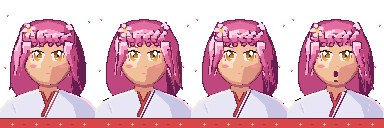
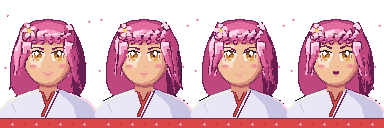
Sakura bust: bigger readable mouths, soft jaw shadow band, visible plum brows
Claude-Session: https://claude.ai/code/session_01J8LgTLVYzThXjNSRVhWqep

diff --git a/tools/sprites/anime_busts.py b/tools/sprites/anime_busts.py
@@ -734,11 +734,14 @@ def s_brow(d, cx, cy, side, lift=0.0, tilt=1.0):
     if E.get("anime"):
         """Thin, soft, high and slightly arched, in a hair-dark tone (not ink)."""
         base = cy - 4.1 - lift
-        dn = (tilt - 1) * 1.2
+        dn = (tilt - 1) * 2.4
         inner = (cx - side * 2.4, base + 0.3 + dn)
-        mid = (cx + side * 0.4, base - 0.55)
-        outer = (cx + side * 3.3, base + 0.1 - dn * 0.6)
-        d.line([P(*p) for p in smooth([inner, mid, outer], 6)], fill=lc(H_D), width=6, joint="curve")
+        mid = (cx + side * 0.4, base - 0.55 + dn * 0.25)
+        outer = (cx + side * 3.3, base + 0.1 - dn * 0.5)
+        sm = smooth([inner, mid, outer], 6)
+        col = lc(H_EDGE)
+        d.line([P(*p) for p in sm], fill=col, width=7, joint="curve")
+        d.line([P(*p) for p in sm[:len(sm) // 2]], fill=col, width=11, joint="curve")      # 1 px thicker at the inner end
         return
     lift += E["brow"]
     outer = (cx + side * 4.0, cy - 3.6 - lift - 0.5 * (tilt - 1))
@@ -748,19 +751,22 @@ def s_brow(d, cx, cy, side, lift=0.0, tilt=1.0):
 
 
 def s_mouth(d, kind):
-    """Small and cute: a short soft line in a dark-pink tone with the corners lifted, a tiny lighter lower lip;
-    shout = a small rounded open mouth with a hint of tongue."""
+    """A soft curved smile (dark-pink line, corners lifted, a lighter lower-lip tint); determined = the same width as a
+    one-sided smirk; shout = a rounded-D open mouth (flat top, round bottom) with a white teeth sliver and tongue."""
     YOFF[0] = -2.7
     if kind == "shout":
-        pts = ellipse_pts(24.0, 39.7, 1.2, 1.45, 16)
+        arc = [(24 + 1.75 * math.cos(a * math.pi / 14), 38.2 + 2.3 * math.sin(a * math.pi / 14)) for a in range(15)]
+        pts = [(22.25, 38.2), (25.75, 38.2)] + arc
         poly(d, pts, H_EDGE)
-        d.ellipse((23.2 * K, 40.2 * K, 24.8 * K, 41.0 * K), fill=LIP)
+        d.ellipse((22.9 * K, 36.9 * K, 25.1 * K, 37.8 * K), fill=RED_L)       # (raw coordinates: no YOFF)
+        rect(d, 22.7, 35.6, 25.3, 36.15, CREAM)
         outline(d, pts, 4, col=lc(LIP))
     elif kind == "determined":
-        d.line([P(*p) for p in smooth([(22.9, 39.5), (23.8, 39.6), (24.7, 39.4), (25.4, 38.9)], 6)], fill=lc(LIP), width=7, joint="curve")
+        d.line([P(*p) for p in smooth([(21.9, 39.5), (23.2, 39.9), (24.7, 39.7), (25.8, 39.0), (26.3, 38.5)], 6)], fill=lc(LIP), width=8, joint="curve")
+        d.line([P(23.2, 40.9), P(25.0, 40.8)], fill=BLUSH, width=6)
     else:
-        d.line([P(*p) for p in smooth([(22.8, 39.0), (23.6, 39.5), (24.5, 39.5), (25.3, 39.0)], 6)], fill=lc(LIP), width=7, joint="curve")
-        d.line([P(23.7, 40.3), P(24.4, 40.3)], fill=SK_L, width=4)
+        d.line([P(*p) for p in smooth([(21.9, 38.9), (22.8, 39.6), (24.0, 39.9), (25.2, 39.6), (26.1, 38.9)], 6)], fill=lc(LIP), width=8, joint="curve")
+        d.line([P(23.0, 40.8), P(25.0, 40.8)], fill=BLUSH, width=6)
     YOFF[0] = 0.0
 
 
@@ -818,10 +824,9 @@ def s_draw_face(img, neckm, torm, expr):
     paste_mask(img, SK_L, both(facem, poly_mask([(15.0, 29.0), (21.0, 30.0), (20.2, 34.0), (17.6, 34.2), (15.4, 32.5)])))
     paste_mask(img, SK_L, both(facem, poly_mask([(15.4, 22.5), (21, 22.5), (20.5, 24.5), (15.2, 25)])))
     paste_mask(img, SK_S, both(facem, inv(shift(facem, int((-22 if strong else -12) * F), 0))))
-    if strong:
-        paste_mask(img, SK_S, both(facem, poly_mask([(26.0, 34.0), (35.8, 30.5), (34.4, 36.5), (28.6, 42.2), (24.5, 41.8)])))
-        chin = both(facem, inv(shift(facem, 0, int(-14 * F))))
-        paste_mask(img, SK_S, both(chin, shift(facem, int(-30 * F), 0)))
+    if strong:     # a band 3 px wide along the right jaw and under the chin, not a plane
+        band = both(both(facem, inv(shift(facem, int(-1.5 * K), int(-1.4 * K)))), box_mask(0, 29, 48, 48))
+        paste_mask(img, SK_S, band)
     paste_mask(img, SK_D, both(both(facem, inv(shift(facem, int(-9 * F), 0))), box_mask(0, 25, 48, 40)))
     paste_mask(img, SK_L, both(both(facem, inv(shift(facem, int(-4 * F), 0))), box_mask(0, 26, 48, 36)))
     d = ImageDraw.Draw(img)
@@ -851,12 +856,12 @@ SHAIRLINE = [(13.4, 23.5), (14.5, 21.8), (17, 20.4), (20.5, 20.8), (24, 20.2), (
              (34.6, 23.5)]
 # bangs: short wide tongues across the forehead ending above the brows (root, tip, width, bend)
 SBANG_SETS = {
-    "blunt": [((15.0, 17.5), (14.4, 22.7), 7.0, 0.8), ((18.4, 17.0), (17.6, 23.2), 7.0, 0.7),
-              ((21.8, 16.8), (21.4, 23.4), 7.0, 0.5), ((25.4, 16.8), (26.0, 23.2), 7.0, -0.5),
-              ((28.9, 17.0), (30.0, 23.0), 7.0, -0.7), ((32.4, 17.5), (33.6, 22.6), 7.0, -0.8)],
-    "side": [((14.6, 17.5), (12.8, 25.2), 7.0, 1.0), ((18.0, 17.0), (15.8, 25.4), 7.0, 1.0),
-             ((21.6, 16.6), (19.4, 25.0), 7.0, 0.9), ((25.4, 16.6), (23.6, 24.2), 7.0, 0.8),
-             ((29.0, 17.0), (27.8, 23.4), 7.0, 0.6), ((32.4, 17.5), (31.8, 22.6), 6.5, 0.5)],
+    "blunt": [((15.0, 17.5), (14.4, 21.5), 7.0, 0.8), ((18.4, 17.0), (17.6, 22.0), 7.0, 0.7),
+              ((21.8, 16.8), (21.4, 22.2), 7.0, 0.5), ((25.4, 16.8), (26.0, 22.0), 7.0, -0.5),
+              ((28.9, 17.0), (30.0, 21.8), 7.0, -0.7), ((32.4, 17.5), (33.6, 21.4), 7.0, -0.8)],
+    "side": [((14.6, 17.5), (12.8, 24.0), 7.0, 1.0), ((18.0, 17.0), (15.8, 24.2), 7.0, 1.0),
+             ((21.6, 16.6), (19.4, 23.8), 7.0, 0.9), ((25.4, 16.6), (23.6, 23.0), 7.0, 0.8),
+             ((29.0, 17.0), (27.8, 22.2), 7.0, 0.6), ((32.4, 17.5), (31.8, 21.4), 6.5, 0.5)],
 }
 
 
@@ -1017,8 +1022,9 @@ def s_draw_frame(sway=0.0, expr="calm"):
     d = ImageDraw.Draw(img)
     E = EYES[SCFG["eyes"]]
     lift, tilt = BROW_ARGS
-    s_brow(d, 24 - E["gap"] / 2, E["cy"] + 0.2, -1, lift, tilt)
-    s_brow(d, 24 + E["gap"] / 2, E["cy"] + 0.2, 1, lift, tilt)
+    if not E.get("anime"):
+        s_brow(d, 24 - E["gap"] / 2, E["cy"] + 0.2, -1, lift, tilt)
+        s_brow(d, 24 + E["gap"] / 2, E["cy"] + 0.2, 1, lift, tilt)
     return img
 
 
@@ -1081,6 +1087,33 @@ def add_obi_motif(out):
                 px[x + dx, 124] = DEEP_RED + (255,)
 
 
+def add_brows(out):
+    """Thin high soft brows in plum, 1 px, 2 px at the inner end, angled down-in when determined (exact pixels)."""
+    E = EYES[SCFG["eyes"]]
+    if not E.get("anime"):
+        return
+    lift, tilt = BROW_ARGS
+    px = out.load()
+    for side in (-1, 1):
+        cx, cy = 24 + side * E["gap"] / 2, E["cy"] + 0.2
+        base = cy - 3.9 - lift
+        dn = (tilt - 1) * 1.1
+        inner = (cx - side * 2.4, base + 0.3 + dn)
+        mid = (cx + side * 0.4, base - 0.55 + dn * 0.25)
+        outer = (cx + side * 3.3, base + 0.1 - dn * 0.5)
+        sm = [(x * 2, y * 2) for x, y in smooth([inner, mid, outer], 8)]
+        n_in = len(sm) // 2
+        for i in range(len(sm) - 1):
+            (x0, y0), (x1, y1) = sm[i], sm[i + 1]
+            steps = max(1, int(max(abs(x1 - x0), abs(y1 - y0)) * 3))
+            for k in range(steps + 1):
+                x = int(x0 + (x1 - x0) * k / steps)
+                y = int(y0 + (y1 - y0) * k / steps)
+                for yy in ((y, y + 1) if i < n_in * 0.6 else (y,)):
+                    if 0 <= x < out.width and 0 <= yy < out.height and px[x, yy][3] and px[x, yy][:3] != INK:
+                        px[x, yy] = H_EDGE + (255,)
+
+
 def make_sakura_frame(sway, expr, cfg=None):
     global SCFG
     SCFG = dict(SDEFAULT, **(cfg or {}))
@@ -1101,6 +1134,7 @@ def make_sakura_frame(sway, expr, cfg=None):
     prot = {(x, y) for y in range(44, 66) for x in range(26, 72) if px[x, y] == WHITE + (255,)}
     out = cleanup(out, prot)
     out = s_recolor_interior(out, (40, 68, 56, 80) if expr == "shout" else None)
+    add_brows(out)
     add_obi_motif(out)
     add_petals(out, sway)
     return out
